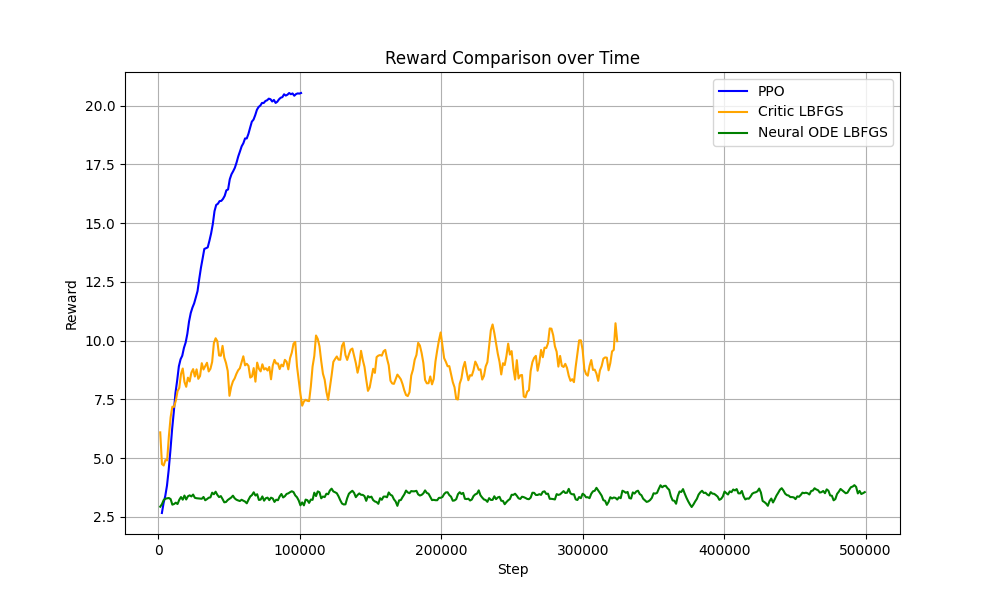
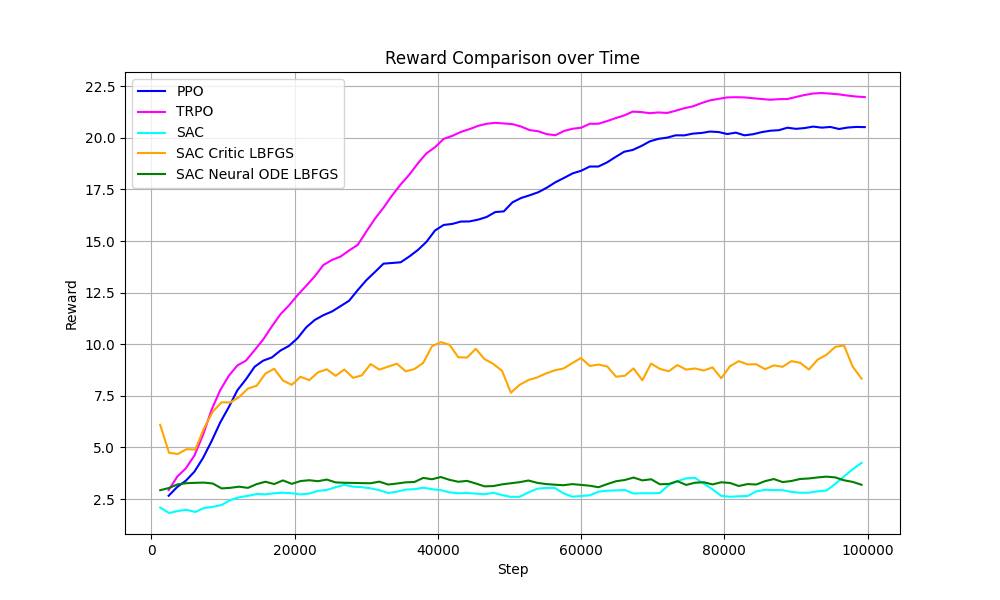
updated plotting

diff --git a/final_project/plotting.py b/final_project/plotting.py
@@ -88,12 +88,50 @@ plt.grid()
 # save it
 plt.savefig(os.path.join(plots_path, "neural_ode_actor_loss_plot.png"))
 
+# sac.csv
+sac = pd.read_csv(os.path.join(data_path, "sac.csv"), sep="\t")
 
-# plot all rewards together for comparison
+# plot
+plt.figure(figsize=(10, 6))
+plt.plot(sac["Step"], sac["Value"], label="SAC", color="cyan")
+plt.xlabel("Step")
+plt.ylabel("Reward")
+plt.title("SAC Reward over Time")
+plt.legend()
+plt.grid()
+
+# save it
+plt.savefig(os.path.join(plots_path, "sac_reward_plot.png"))
+
+# trpo.csv
+trpo = pd.read_csv(os.path.join(data_path, "trpo.csv"), sep="\t")
+
+# plot
+plt.figure(figsize=(10, 6))
+plt.plot(trpo["Step"], trpo["Value"], label="TRPO", color="magenta")
+plt.xlabel("Step")
+plt.ylabel("Reward")
+plt.title("TRPO Reward over Time")
+plt.legend()
+plt.grid()
+
+# save it
+plt.savefig(os.path.join(plots_path, "trpo_reward_plot.png"))
+
+
+# plot all rewards together for comparison, only plot <100k
+good_ppo = good_ppo[good_ppo["Step"] < 100000]
+decent_lbfgs = decent_lbfgs[decent_lbfgs["Step"] < 100000]
+neural_ode = neural_ode[neural_ode["Step"] < 100000]
+sac = sac[sac["Step"] < 100000]
+trpo = trpo[trpo["Step"] < 100000]
+
 plt.figure(figsize=(10, 6))
 plt.plot(good_ppo["Step"], good_ppo["Value"], label="PPO", color="blue")
-plt.plot(decent_lbfgs["Step"], decent_lbfgs["Value"], label="Critic LBFGS", color="orange")
-plt.plot(neural_ode["Step"], neural_ode["Value"], label="Neural ODE LBFGS", color="green")
+plt.plot(trpo["Step"], trpo["Value"], label="TRPO", color="magenta")
+plt.plot(sac["Step"], sac["Value"], label="SAC", color="cyan")
+plt.plot(decent_lbfgs["Step"], decent_lbfgs["Value"], label="SAC Critic LBFGS", color="orange")
+plt.plot(neural_ode["Step"], neural_ode["Value"], label="SAC Neural ODE LBFGS", color="green")
 plt.xlabel("Step")
 plt.ylabel("Reward")
 plt.title("Reward Comparison over Time")
